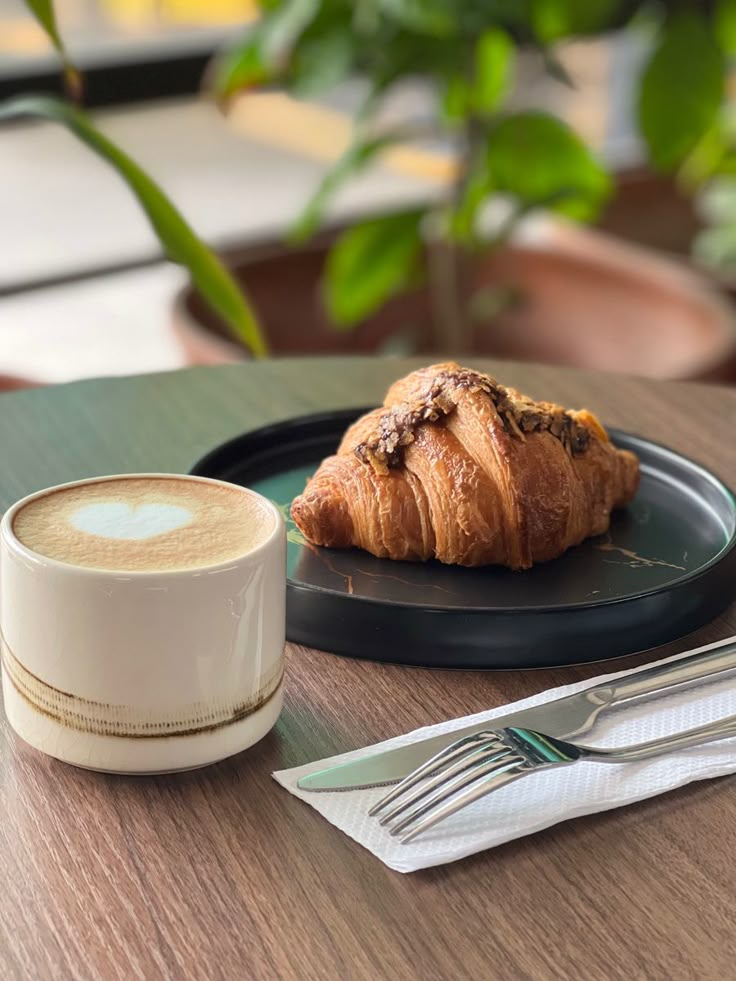
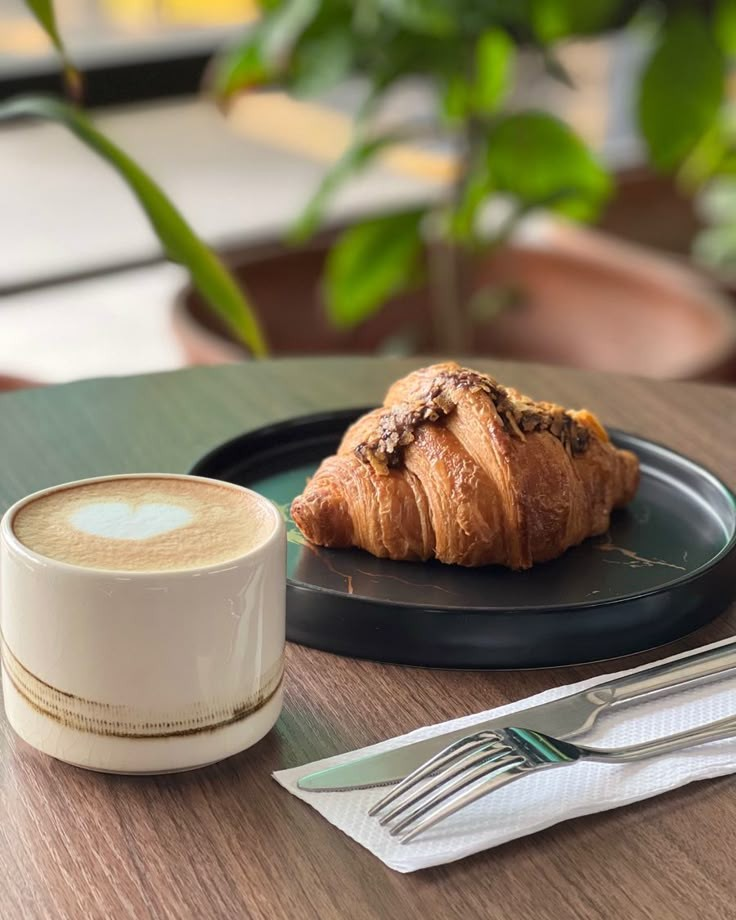
add

diff --git a/src/App.js b/src/App.js
@@ -1,3 +1,9 @@
+import "@fontsource/cinzel-decorative";
+import "@fontsource/cinzel-decorative/700.css";
+import "@fontsource/cinzel-decorative/900.css";
+import "@fontsource/didact-gothic";
+import "@fontsource/didact-gothic/400.css";
+import './App.css';
 import logo from './assets/logo.png';
 import SearchIcon from "@mui/icons-material/Search";
 import PersonIcon from "@mui/icons-material/Person";
@@ -6,17 +12,26 @@ import image1 from './assets/imagesSectionImg1.jpg';
 import image2 from './assets/imagesSectionImg2.jpg';
 import image3 from './assets/imagesSectionImg3.jpg';
 import image4 from './assets/imagesSectionImg4.jpg';
+import Coffeestory from './components/Coffeestory';
 import ShopSpecialityCoffee from './assets/shopSpecialityImage.jpg';
 import experienceImage from './assets/experienceImage.jpg';
 import discoverImage from './assets/discoverImage.jpg';
 import tasteImage from './assets/tasteImage.jpg';
-import "@fontsource/cinzel-decorative";
-import "@fontsource/cinzel-decorative/700.css";
-import "@fontsource/cinzel-decorative/900.css";
-import "@fontsource/didact-gothic";
-import "@fontsource/didact-gothic/400.css";
+import GiftSectionImg from './assets/GiftSectionImg.jpg';
+import signatureEspressoImage from './assets/signatureEspresso.jpg';
+import vanillaLatteImage from './assets/vanillaLatte.jpg';
+import coldBrewImage from './assets/coldBrew.jpg';
+import FavoriteItems from './components/FavoriteItems';
+import img1 from './assets/1.jpg';
+import img2 from './assets/2.jpg';
+import img3 from './assets/3.jpg';
+import img4 from './assets/4.jpg';
+import img5 from './assets/5.jpg';
+import img6 from './assets/6.jpg';
+import img7 from './assets/7.jpg';
+import img8 from './assets/8.jpg';
+import img9 from './assets/9.jpg';
 
-import './App.css';
 
 function App() {
   return (
@@ -43,20 +58,16 @@ function App() {
       </nav>
       <div className='ImagesSection'>
         <div>
-
           <img src={image1} alt='image1' />
         </div>
         <div>
           <img src={image2} alt='image2' />
-
         </div>
         <div>
           <img src={image3} alt='image3' />
-
         </div>
         <div>
           <img src={image4} alt='image4' />
-
         </div>
       </div>
       <div className='secondSection'>
@@ -85,45 +96,92 @@ function App() {
         </div>
       </div>
       <div className='thirdSection'>
-        <img src='' alt='storePickupImg' />
+        <div><img src={logo} alt='storePickupLogo' className='storePickupLogo' /></div>
+        <div>
+          <button className='storePickupButton'>Store Pickup</button>
+          <p className='storePickupText'>
+            Skip the wait and pick up your order directly from our<br />
+            store! Simply place your order online, choose the store<br />
+            pickup option at checkout, and we’ll have your items<br />
+            freshly prepared and ready when you arrive. It’s quick,<br />
+            convenient, and perfect for when you’re on the go.</p>
+
+        </div>
       </div>
       <div className='coffeeStorySection'>
-        <h5>Our Speciality Coffee Story</h5>
+        <h5 className='coffeeStoryTitle'>Our Speciality Coffee Story</h5>
         <div className='coffeeStoryCards'>
-        <div className='CoffeeStory'>
-          <p className='coffeeStoryContentHeadings'>Shop Speciality Coffee</p>
-          <p>Premium speciality coffees sourced from</p>
-          <p>across India, freshly roasted</p>
-          <p>and packed in small batches.</p>
-          <img src={ShopSpecialityCoffee} alt='image1' />
+          <Coffeestory
+            title="Shop Speciality Coffee"
+            content="Premium speciality coffees sourced from across India, freshly roasted and packed in small batches."
+            imgSrc={ShopSpecialityCoffee}
+          />
+          <Coffeestory
+            title="Experience Fine Coffee"
+            content="Carefully selected Indian speciality beans, roasted in small batches to ensure rich flavour and freshness."
+            imgSrc={experienceImage}
+          />
+          <Coffeestory
+            title="Discover Artisanal Coffee"
+            content="Exceptional coffees from India’s finest regions, expertly roasted and packed in small batches."
+            imgSrc={discoverImage}
+          />
+          <Coffeestory
+            title="Taste Authentic Brews"
+            content="High-quality speciality coffees from across India, small-batch roasted for a smooth and memorable cup."
+            imgSrc={tasteImage}
+          />
         </div>
-        <div className='CoffeeStory'>
-          <p className='coffeeStoryContentHeadings'>Experience Fine Coffee</p>
-          <p>Carefully selected Indian speciality beans,</p>
-          <p>roasted in small batches to</p>
-          <p>ensure rich flavour and freshness.</p>
-                    <img src={experienceImage} alt='image1' />
-
-        </div>
-        <div className='CoffeeStory'>
-          <p className='coffeeStoryContentHeadings'>Discover Artisanal Coffee</p>
-          <p>Exceptional coffees from India’s finest</p>
-          <p>regions, expertly roasted and</p>
-          <p>packed in small batches.</p>
-                    <img src={discoverImage} alt='image1' />
-
-        </div>
-        <div className='CoffeeStory'>
-          <p className='coffeeStoryContentHeadings'>Taste Authentic Brews</p>
-          <p>High-quality speciality coffees from across</p>
-          <p>India, small-batch roasted for</p>
-          <p>a smooth and memorable cup.</p>
-                    <img src={tasteImage} alt='image1' />
-
-        </div>
+      </div>
+      <div className='giftSection'>
+        <div><img src={GiftSectionImg} alt='giftSectionImg' className="giftSectionImg" /></div>
+        <div className='giftSectionContent'>
+          <h5>GIVE A PRIME GIFT</h5>
+          <p className="giftSectionPara">From gift cards to brewing essentials, explore our<br />
+            curated gifts and sets. A thoughtful way to tell the<br />
+            coffee lovers in your life you care.</p>
+          <button className='giftSectionButton'>Shop Gift Cards</button>
         </div>
       </div>
 
+      {/* // Favorite Items Section */}
+      <div className='favoriteItemsSection'>
+        <h5 className='favoriteItemsTitle'>Our Favorites</h5>
+        <div className='favoriteItemsCards'>
+          <FavoriteItems
+            imgSrc={signatureEspressoImage}
+            item="Signature Espresso"
+            price="280"
+          />
+          <FavoriteItems
+            imgSrc={vanillaLatteImage}
+            item="Vanilla Latte"
+            price="320"
+          />
+          <FavoriteItems
+            imgSrc={coldBrewImage}
+            item="Cold Brew"
+            price="350"
+          />
+        </div>
+      </div>
+
+
+
+      <div className='favoriteItemsSection spaceTop'>
+        <div className='collectionCards'>
+          <div> <img src={img1} alt="img1" /> </div>
+          <div> <img src={img2} alt="img2" /> </div>
+          <div> <img src={img3} alt="img3" /> </div>
+          <div> <img src={img4} alt="img4" /> </div>
+          <div> <img src={img5} alt="img5" /> </div>
+          <div> <img src={img6} alt="img6" /> </div>
+          <div> <img src={img7} alt="img7" /> </div>
+          <div> <img src={img8} alt="img8" /> </div>
+          <div> <img src={img9} alt="img9" /> </div>
+        
+        </div>
+      </div>
     </div>
   );
 }

diff --git a/src/App.css b/src/App.css
@@ -58,8 +58,10 @@
 
 .secondSection{
   display: flex;
-  justify-content: space-around;
-  padding: 90px 100px;
+  justify-content: space-between;
+  padding: 90px 0;
+  width: 80%;
+  margin: auto;
 }
 
 h5{
@@ -72,22 +74,89 @@ p{
   font-size: 12px;
 }
 
-.coffeeStoryCards{
+.thirdSection{
+  background-image: url('./assets/storePickupImg.png');
+  height: 400px;
+  display: flex;
+  justify-content: space-around;
+  align-items: center;
+}
+
+.storePickupLogo{
+  display: block;
+  padding: 150px 0 0 45px;
+  width: 200px;
+}
+
+.storePickupButton{
+background-color: #fff;
+width: 280px;
+border: none;
+padding: 10px 0;
+}
+
+.coffeeStorySection{
+  width: 80%;
+  margin: auto;
+}
+
+.coffeeStoryTitle{
+  margin: 50px 0;
+}
+
+.giftSection{
   display: flex;
   justify-content: center;
+  align-items: center;
+  padding: 80px 0;
+  width: 80%;
   gap: 50px;
+  margin: auto;
 }
-
-.CoffeeStory{
-  background-color: #F5EFD8;
-  padding: 30px;
-  text-align: center;
+.giftSection > div {
+  flex: 1;
 }
-
-.coffeeStoryContentHeadings{
-  font-size: medium;
-  padding-bottom: 5px;
-}
-img{
+.giftSectionImg{
   width: 100%;
 }
+
+.giftSectionPara{
+  margin: 10px 0 12px 0;
+}
+
+.giftSectionButton{
+  background-color: #fff;
+  width: 280px;
+  border: none;
+  padding: 10px 0;
+}
+
+.favoriteItemsSection{
+  width: 80%;
+  margin: auto;
+}
+
+.favoriteItemsTitle{
+  margin: 50px 0;
+}
+
+.favoriteItemsCards{
+  display: grid;
+  grid-template-columns: calc(100%/3) calc(100%/3) calc(100%/3);
+  gap: 50px;
+}
+.collectionCards{
+  display: grid;
+  grid-template-columns: calc(100%/3) calc(100%/3) calc(100%/3);
+  gap: 50px;
+  row-gap: 50px;
+}
+.collectionCards img{
+  width: 100%;
+}
+.spaceTop {
+  margin-top: 50px;
+}
+/* img{
+  width: 100%;
+} */  

diff --git a/src/components/Coffeestory.css b/src/components/Coffeestory.css
@@ -1,0 +1,26 @@
+.coffeeStoryCards{
+  display: flex;
+  justify-content: center;
+  gap: 50px;
+}
+
+.CoffeeStory{
+  background-color: #F5EFD8;
+  padding: 30px;
+  text-align: center;
+}
+
+.coffeeStoryContentHeadings{
+  font-size: medium;
+  padding-bottom: 5px;
+}
+.coffeeContentPara{
+  width: 75%;
+  margin: auto;
+}
+
+.coffeeContentImg{
+  width: 100%;
+  margin-top: 20px;
+}
+    

diff --git a/src/components/Coffeestory.js b/src/components/Coffeestory.js
@@ -1,0 +1,13 @@
+import './Coffeestory.css';
+
+const Coffeestory = ({title, content, imgSrc}) => {
+  return (
+    <div className='CoffeeStory'>
+        <p className='coffeeStoryContentHeadings'>{title}</p>
+        <p className='coffeeContentPara'>{content}</p>
+        <img src={imgSrc} alt='image1' className='coffeeContentImg' />
+        </div>
+  )
+}
+
+export default Coffeestory

diff --git a/src/components/FavoriteItems.js b/src/components/FavoriteItems.js
@@ -1,0 +1,13 @@
+import './FavoriteItems.css';
+
+const FavoriteItems = ({ imgSrc, item, price }) => {
+  return (
+    <div className='FavoriteItems'>
+        <img src={imgSrc} alt='image1' className='itemImg' />
+        <p className='item'><b>{item}</b></p>
+        <p className='price'>{price}</p>
+        </div>
+  )
+}
+
+export default FavoriteItems

diff --git a/src/components/FavoriteItems.css b/src/components/FavoriteItems.css
@@ -1,0 +1,22 @@
+
+.FavoriteItems{
+  background-color: #F5EFD8;
+  padding: 30px;
+  text-align: center;
+}
+
+.item{
+  font-size: medium;
+  padding-bottom: 5px;
+  margin: 10px;
+}
+.price{
+  width: 75%;
+  margin: auto;
+}
+
+.itemImg{
+  width: 100%;
+  margin-top: 20px;
+}
+    

diff --git a/src/components/ImageCollection.js b/src/components/ImageCollection.js
@@ -1,0 +1,9 @@
+import React from 'react'
+
+const ImageCollection = () => {
+  return (
+    <div>ImageCollection</div>
+  )
+}
+
+export default ImageCollection
